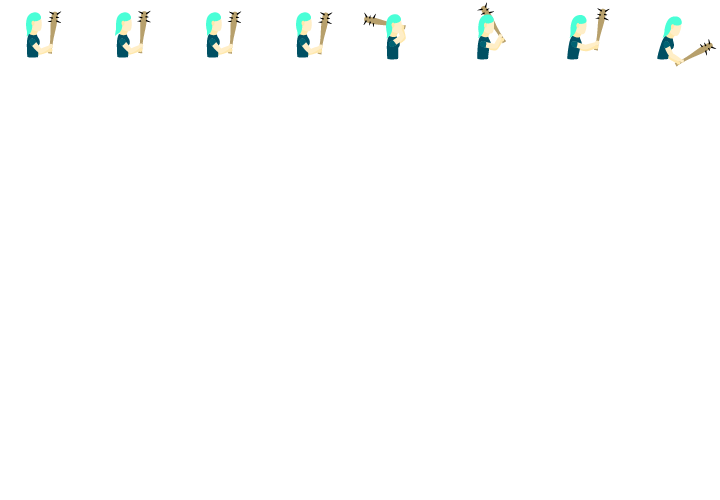
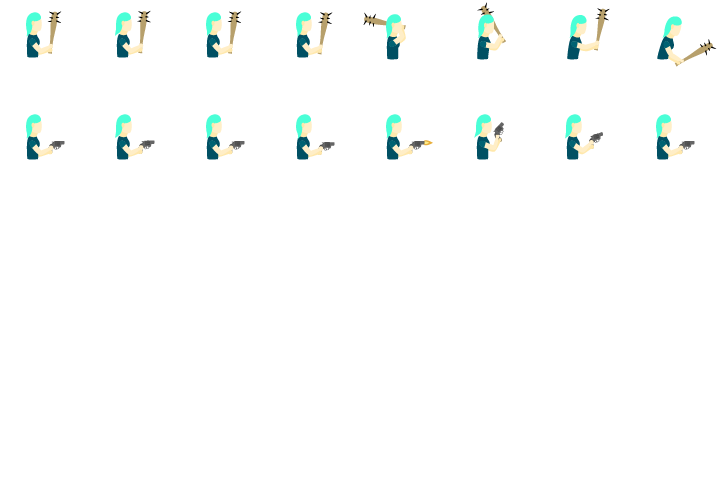
Adds pistol idle and fire animation

diff --git a/src/weapons/pistol.ts b/src/weapons/pistol.ts
@@ -9,7 +9,10 @@ export class Pistol extends Weapon {
   public maybeFire(game: GameInstance): boolean {
     if (this.ammo > 0 && game.keyState.isPressed(KeyState.SPACEBAR)) {
       this.ammo--;
-      game.addGameObject(new Bullet(game));
+      const BULLET_OFFSET = 9;
+      let bullet = new Bullet(game);
+      bullet.pos.r += BULLET_OFFSET;
+      game.addGameObject(bullet);
       return true;
     }
     return false;

diff --git a/src/objects/player.ts b/src/objects/player.ts
@@ -152,7 +152,7 @@ export class Player extends GameObject {
         },
         'pistol-attack': {
           frames: [12, 13, 14, 15],
-          ticksPerFrame: 1,
+          ticksPerFrame: 3,
         },
         'shotgun-idle': {
           frames: [16, 17, 18, 19],
